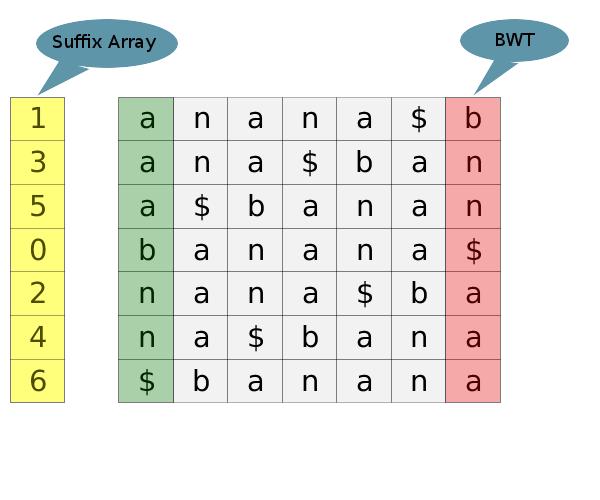
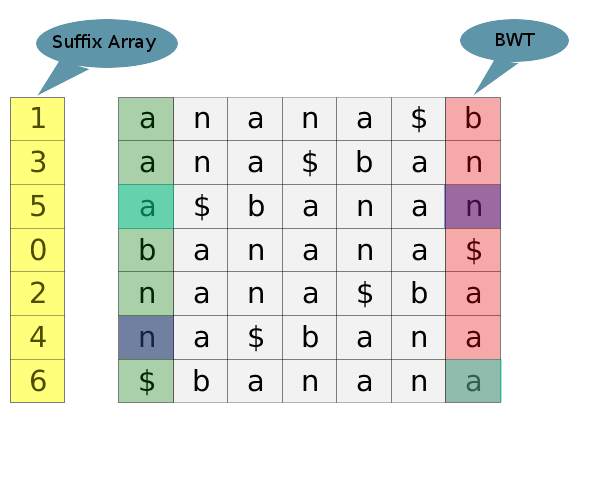
first cut of the complete post

diff --git a/viz/index.html b/viz/index.html
@@ -36,33 +36,63 @@
       <div class="span-15 prepend-1 colborder">
         <h2>Elegant exact string match using BWT</h2>
         <blockquote>
-        <p>This post is the first of a series where we describe some interesting algorithms used in our product <a href="http://avadis-ngs.com">Avadis NGS</a>. We have intentionally kept the usage of bioinformatics jargon minimum to benefit wider audience.</p>
+        <p>This post is the first of a series where we describe some interesting algorithms used in our product <a href="http://avadis-ngs.com">Avadis NGS</a>. First post in this series is about string matching using BWT, a technique that forms the core of our aligner <a href="http://www.avadis-ngs.com/applications/cobweb">COBWeb</a>. We have intentionally kept the usage of bioinformatics jargon minimum to benefit a wider audience.</p>
         </blockquote>
-        <p>This post describes an elegant and fast algorithm to perform exact string match. Why another string matching algorithm? To answer the question, we need to understand what the problem we are trying to solve is</p>
-        <p>In short, the problem is to match billions of short strings (about 50-100 characters long) to a text which is 2 billion characters long. The 2 billion character string (referred to as the reference hereafter) is known ahead and is fixed (at least for a species). The shorter strings (called reads hereafter) are generated as a result of an experiment. The problem arises due to the way the <a href="http://en.wikipedia.org/wiki/DNA_sequencing">sequencing technology</a> works, which in its current form, breaks the DNA into small fragments and 'reads' them. The information about where the fragments came from is lost and hence the need to 'map' them back to the reference sequence</p>
+        <p>This post describes an elegant and fast algorithm to perform exact string match. Why another string matching algorithm? To answer the question, we need to understand what the problem we are trying to solve is.</p>
+        <p>In short, the problem is to match billions of short strings (about 50-100 characters long) to a text which is 2 billion characters long. The 2 billion character string (referred to as the reference hereafter) is known ahead and is fixed (at least for a species). The shorter strings (called reads hereafter) are generated as a result of an experiment. The problem arises due to the way the <a href="http://en.wikipedia.org/wiki/DNA_sequencing">sequencing technology</a> works, which in its current form, breaks the DNA into small fragments and 'reads' them. The information about where the fragments came from is lost and hence the need to 'map' them back to the reference sequence.</p>
         <p>We need an algorithm that allows repeatedly searching on a text as <i>fast</i> as possible. We are allowed to perform some preprocessing on the text once if that will help us achieve this goal. BWT search is one such algorithm. It requires a one-time preprocessing of the reference to build an index, after which the query time is of the order of the length of the query. (instead of the reference)</p>
         <p><a href="http://en.wikipedia.org/wiki/Burrows%E2%80%93Wheeler_transform">Burrows Wheeler transform</a> is a reversible string transformation that has been widely used in data compression. However the application of BWT to perform string matching was discovered recently in this <a href="people.unipmn.it/manzini/papers/focs00draft.pdf">paper</a>. This technique is the topic of this post. Before we get to the searching application, a little background how BWT is constructed and some properties of BWT.</p>
         <p>BWT for a given text T is constructed as follows:</p>
         <ul>
-          <li>Append a end of string character (say '$') to the text. This character should not be present in the text and is treated as the lexicographically largest character</li>
+          <li>Append a end of string character (say '$') to the text. This character should not be present in the text and is treated as the lexicographically largest character.</li>
           <li>Collect all the cyclic permutations of the text and sort them.</li>
-          <li>Arrange all the sorted strings one below the other. The last column forms the BWT</li>
+          <li>Arrange all the sorted strings one below the other. The last column forms the BWT.</li>
         </ul>
-        <p>The image below shows the BWT transform for BANANA$. In practice though, the above algorithm is very inefficient. There are smarter ways to get the BWT, but that is a topic for another post.</p>
+        <p>The image below shows the BWT transform for BANANA$.</p> 
         <img src="images/bwt.png" />
-        <p>BWT has some nice properties which gives it its power:</p>
+        <p>A few things to note from the image</p>
         <ul>
-          <li>Reversible: The original text can be recovered easily from the BWT. TODO</li>
-          <li>Rank preserving: TODO</li>
-          <li>Compressibility: TODO</li>
+          <li>The red column, as indicated, is the BWT of BANANA$'</li>
+          <li>The yellow column, as indicated, is the <a href="http://en.wikipedia.org/wiki/Suffix_array">Suffix Array</a>. For every row, the element in the suffix array is the index into the original string of the suffix starting in that row. Note that if you have the suffix array, constructing BWT is straightforward. The above algorithm of performing a full sort on all suffixes to find the suffix array and BWT is very inefficient. Efficiently finding the suffix array will the topic for our next post in this series.</li>
+          <li>The green column is just the sorted characters in the string.</li>
         </ul>
+        <p>Before proceeding we need to understand one interesting property of the BWT. The rank of a character is the BWT column is the same as that of the corresponding character in the fist column. This is illustrated in the image above using colors. The 2nd N in the BWT column correponds to the 2nd N in the first column, 3rd A in the BWT column corresponds to the 3rd A in the first column and so on. To see why this is the case, remember that all the rows in the grid are cyclic permutations of a single string. Let AX1, AX2, AX3 be three consecutive rows in the grid where A is the first character and X1, X2, X3 denote the rest of the row. As the rows are sorted lexicographically, X1, X2, X3 are sorted too. On cyclic shifts, we get X1A, X2A, X3A which are again sorted, hence in the same relative order in the grid. Note that now the A's are entries in the BWT <i>in the same relative order</i>. This is illustrated in the figure below.</p>
+        <img src="images/text2.png" />
         <h3>Search using BWT</h3>
-        <p>Our data structure for search has three parts</p>
+        <p>Our index data structure has the following</p>
         <ol>
-        <li>BWT of the string</li>
-        <li>Suffix Array - </li>
-
-
+          <li>BWT - Indexed access. We will denote this by BWT(i).</li>
+          <li>Suffix Array - Indexed access. We will denote this by SA(i).</li>
+          <li>First row - Queries : Start index, end index of an alphabet and index given alphabet and a rank. For example, find the index of letter 'G' with rank 3. This can be achieved by just storing the frequency of each alphabet in order. For example, for BANANA$, its enough to store 3A1B2N1$. This query can be answered by a simple walk over this compressed structure. We will denote the queries by Start(alphabet), End(alphabet) and IndexOf(alphabet, rank).</li>
+          <li>Ranks in BWT - We need fast access to the following query : Get number of occurences of a particular character above a particular row in the BWT. For example, get the number of 'A's above row 5. One way to achieve this is to store at each row the frequency of each alphabet till that row. This can be achieved by a single pass over the BWT. In practice though, we don't store this at every row, but store at regular intervals. We will assume here that it is stored at every row for simplicity. We will denote this query by RankOf(index, alphabet)</li>
+        </ol>
+        <p>Let T be the text searched on and Q be the query string. The algorithm is as follows</p>
+        <pre>
+          index = len(Q) # Walk the query backwords
+          next = Q[index--]
+          (start, end) = (Start(next), End(next))
+          while index >= 0:
+            next = Q[index--]
+            (startrank, endrank) = (RankOf(start, next), RankOf(end, next))
+            (start, end) = (IndexOf(next, startrank), IndexOf(next, endrank))
+          for i in range(start, end):
+            print SA(i)
+        </pre>
+        <p>The output of this algorithm are the indexes into the original text where the query is present. Not that error condition handling has been skipped in the pseudocode above for brevity. It involves checking if the range found at every loop is a valid range.</p>
+        <p>The visualization below explains the algorithm. Few points about the visualization</p>
+        <ul>
+          <li>Yellow text on the top indicates the text to search on and the yellow text on bottom the query</li>
+          <li>Red column indicates BWT, orange the suffix array </li>
+          <li>The grey part of the grid is not stored as part of the index. It is shown here just for clarity</li>
+          <li>Rows highlighted by blue indicates the range where search till that point is successful</li>
+        </ul>
+        <p>Lets step through the visualization for text ABRACADABRA and query ADA. Follow the points below by hitting on 'Step' button after each point.</p>
+        <ul>
+          <li>Remember that the query is walked from the last to first. The first character is 'A', which results in the range shown</li>
+          <li>Next character is 'D'. Get the rank of 'D' on the BWT for the first and last rows on the current range. The ranks as shown in the tooltips are 0 and 1. The new range is determined by the rows where 'D' has rank 0 and rank 1 on the first column. This is shown by the new range</li>
+          <li>Now the final character 'A' again. Performing the the same steps as above, we get the final range as the row '3'. The corresponding element on the suffix array is '5' which is the index in the original text where 'ADA' starts</li>
+        </ul>
+        <p>Play around with the visualization with different texts and queries to understand the algorithm better.</p>
         <div id="bwtparent">
           <div id="bwt"></div>
           <div id="controls">
@@ -76,7 +106,7 @@
               <label for="inptext">Text:</label>
               <input type="text" name="inptext" id="inptext" value="abracadabra"/><br />
               <label for="query">Query:</label>
-              <input type="text" name="query" id="query" value="ab"/><br />
+              <input type="text" name="query" id="query" value="ada"/><br />
               <button type="button" id="submit">Load</button>
           </div>
         </div>

diff --git a/viz/js/main.js b/viz/js/main.js
@@ -4,8 +4,8 @@
  */
 $(document).ready(function() {
     bwtView = new BWTView("bwt");
-    loadText("banana$");
-    loadQuery("cada");
+    loadText("abracadabra$");
+    loadQuery("ada");
     $('#play').click(playhandler);
     $('#step').click(stephandler);
     $('#submit').click(submithandler);
@@ -86,7 +86,7 @@ function delayedAdvance(play) {
     if (play === undefined || play === null)
         play = true;
     if (queryPosition >= 0)
-        bwtView.grid.showRanks(range.start, range.end, query[queryPosition]);
+        bwtView.grid.showRanks(range.start, range.end-1, query[queryPosition]);
     setTimeout(function() {
         advance(play);
     }, 1000);
@@ -116,6 +116,9 @@ function advance(play) {
     }
 }
 
+/**
+ * Handler when search fails
+ */
 function searchFailed() {
     $('#status').html("Query not found");
     $('#status').css('color', 'red');
@@ -123,6 +126,9 @@ function searchFailed() {
     enableButtons();
 }
 
+/**
+ * Handler when search succeeds
+ */
 function searchSuccess() {
     var results = range.end - range.start;
     if (results === 1)
@@ -139,11 +145,18 @@ function searchSuccess() {
     enableButtons();
 }
 
+/**
+ * Enable the play and step buttons
+ */
 function enableButtons() {
     $('#play').attr('disabled', false);
     $('#step').attr('disabled', false);
 }
 
+/**
+ * Handler when submit button is clicked. Loads the values from the text
+ * and query inputs to the viz
+ */
 function submithandler() {
     var text = $('#inptext').val();
     var query = $('#query').val();

diff --git a/viz/js/view.js b/viz/js/view.js
@@ -89,7 +89,7 @@ SuffixGrid.prototype.highLightColumns = function(textLength) {
     // Suffix array
     var suffixArray = this.paper.rect(this.x, this.y, this.cellWidth, this.cellHeight * textLength);
     suffixArray.attr({
-        fill : "yellow",
+        fill : "orange",
         opacity : 0.3
     });
 
